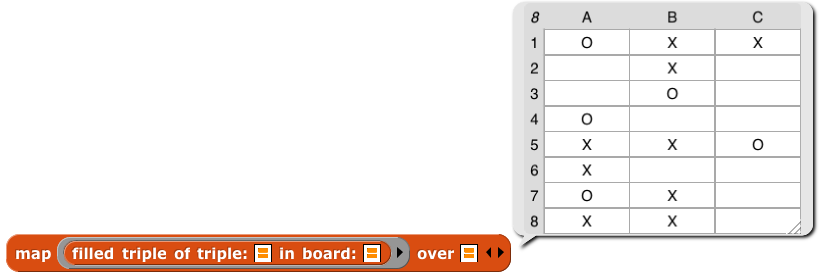
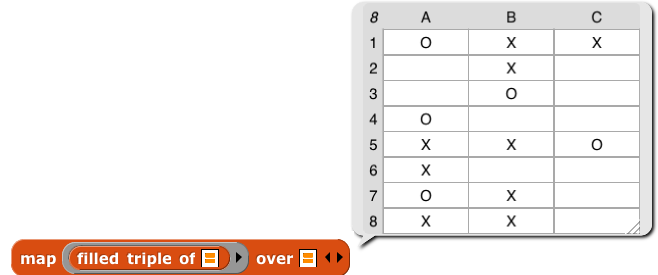
Revision of ttt per Paul's review
Ready for Paul's second review!

diff --git a/cur/programming/1-introduction/mini17/tttv2.html b/cur/programming/1-introduction/mini17/tttv2.html
@@ -12,10 +12,25 @@
 <img src="/bjc-r/img/1-introduction/ttt-board-and-list.png" alt="tic-tac-toe board and BOARD list" /><br /> 
 Now we'd like the computer to check,  after a player has moved, whether that player has won the game. To do that, it must be able to detect patterns in the board position that mean the player has three cells in some row or column or diagonal. Your goal is to write a <img src="/bjc-r/img/1-introduction/has-player-won.png" alt="has player ( ) won?"> block. The input will be X or O, representing the player that just moved.</p>
 <div class="forYouToDo" id="first"><ol>
-<li>How many ways are there to win at tic-tac-toe? With your partner, figure out which sets of three squares count as a win and list them all on paper. (For example, {4, 5, 6} is the list of cells in the second row. If one player fills all three  cells in that list, that player wins. Another win is {3, 5, 7}, one of the diagonals.)</li>
+<li>How many ways are there to win at tic-tac-toe? With your partner, figure out which sets of three squares count as a win and list them all on paper. (For example, {4, 5, 6} is the list of cells in the second row. If one player fills all three  cells in that list, “that player wins. Another win is {3, 5, 7}, one of the diagonals.)</li“‘>
 <li>Load <a class="run" href="/bjc-r/prog/1-introduction/mini-ttt.xml">this project</a>.  The <code>wins</code> block already contains the two wins listed above. Fill in the remaining winning triples you've found.<br />
   <img src="/bjc-r/img/1-introduction/wins.png" width="50%" alt="wins" /><br />
-  </li>
+  </li></ol></div>
+<p>Let's say player X has just moved. We want to know whether X won the game — whether there are three Xs along any of the eight winning triples. We're going to attack this problem in two pieces. First, we'll find out whether X has won along <em>some particular</em> triple. After that, we'll see how to ask that question for all the triples at once.</p>
+<p>So, given a winning triple such as <code>{4,5,6}</code>, we want to convert those three numbers into the three corresponding items of <var>board</var>, in this case <code>{_,X,_}</code>. (Each <code>_</code> shown here represents an empty item in the list, not an actual underscore character.)</p>
+<p>Saying that another way, we want a list of three items, namely
+<br /><code>item 4 of board</code>
+<br /><code>item 5 of board</code>
+<br /><code>item 6 of board</code>
+<br />We'll call a list like <code>{_,X,_}</code> a <em>filled triple.</em>  (We just made up that name to have a name; it's not a computer science technical term.)</p>
+<p>You could write an expression like this:<br /><img src="/bjc-r/img/2-conditionals-abstraction-testing/list-456.png" alt="list (item 4 of board) (item 5 of board) (item 6 of board)"><br />
+... but it would be painful to do that for every possible winning triple.  You'd really like to be able to ask for <img src="/bjc-r/img/2-conditionals-abstraction-testing/item-qmqmqm.png" alt="item ??? of board"> with each item of <code>{4,5,6}</code> as the first input to <code>item</code>.</p>
+
+Computing some function of each item of a list is a very common thing to want, and Snap<em>!</em> has a tool for it.
+
+<div class="takeNote">
+<h4>Map</h4>
+<div class="forYouToDo"><ol start="3">
   <li>Try these:<br />
               
       <img class="indent" src="/bjc-r/img/3-lists/map-example-2.png" alt="map (join ( ) (s)) over (list (cat) (dog) (bird)) reporting" title="map (join ( ) (s)) over (list (cat) (dog) (bird)) reporting" /><br />
@@ -24,13 +39,7 @@ Note that each example has an empty input slot in a function (the green blocks, 
 </ol>
 </div>
 <p><code>Map</code> calls a given function (its first input) on each item of a list (its second input). It reports a list of the reported values.</p>
-<p>&nbsp;</p>
-<p>Let's say player X has just moved. We want to know whether X won the game — whether there are three Xs along any of the eight winning triples. So, given a winning triple such as <code>{4,5,6}</code>, we want to convert those three numbers into the three corresponding items of <var>board</var>, in this case <code>{_,X,_}</code>. (Each <code>_</code> shown here represents an empty item in the actual list.)</p>
-<p>Saying that another way, we want a list of three items, namely
-<br /><code>item 4 of board</code>
-<br /><code>item 5 of board</code>
-<br /><code>item 6 of board</code>
-<br />We'll call a list like <code>{_,X,_}</code> a <em>filled triple.</em>  (We just made up that name to have a name; it's not a computer science technical term.)</p>
+</div>
 
 <div class="forYouToDo">
                 <img class="imageRight" src="/bjc-r/img/icons/talk-with-your-partner-mini.png" alt="Talk with Your Partner" title="Talk with Your Partner" />
@@ -39,22 +48,31 @@ Note that each example has an empty input slot in a function (the green blocks, 
 <li>Fill in one of the two empty input slots in <br /><img src="/bjc-r/img/1-introduction/map-over-456.png" alt="map [item ( ) of ( )] over (list 4 5 6)">
 so that it reports
 <code>{_,X,_}</code>.</li>
-<li>Write a reporter<br />
-<img src="/bjc-r/img/1-introduction/filled-triple-empty.png" alt="filled triple of triple: ( ) in board: ( )"><br />
+<li>Write a reporter
+<img src="/bjc-r/img/1-introduction/filled-triple-empty.png" alt="filled triple of ( )">
 that works like this:<br />
-<img src="/bjc-r/img/1-introduction/filled-triple-example.png" alt="filled triple of triple: (list 4 5 6) in board: (board) "></li>
+<img src="/bjc-r/img/1-introduction/filled-triple-example.png" alt="filled triple (list 4 5 6)"></li>
+<li>Fill in the blank in the expression below so that it reports <code>true</code> if X has won in this triple:<br /><img src="/bjc-r/img/1-introduction/filled-triple-equals-what.png" alt="(filled triple (list 4 5 6)) = ( )">
+</ol></div>
+<div class="takeItFurther"><ol type="A">
 <li>Fill in some blanks in the expression below so that it gives the result shown:<br />
 <img src="/bjc-r/img/1-introduction/filled-wins.png" alt="map [filled triple of triple: ( ) in board: ( )] over ( )"><br />
-Use the resulting expression to write a <code>filled wins in board:</code> block.</li>
-<li>Try these examples:<br />
+Use the resulting expression to write a <code>filled wins</code> block.</li></ol></div>
+<p>Okay, now you have the tools you need to ask whether X has won <em>along some particular</em> triple.  To solve the entire problem &mdash; to find out whether X has won <em>along any</em> triple &mdash; you'd like to ask the question "are there any triples along which X has won?"  Snap<em>!</em> doesn't exactly have a tool for that, but it has something more generally useful: a way to select <em>those items from a list for which some predicate function reports true.</em>
+<div class="takeNote">
+<h4>Keep</h4>
+<div class="forYouToDo">
+<ol start="8"><li>Try these examples:<br />
 <img src="/bjc-r/img/3-lists/keep-example-1.png" alt="keep items such that [is ( ) a number ?] from (list 5 ☺ six 7 elephant 3) reporting {5,7,3}"><br />
 <img src="/bjc-r/img/1-introduction/keep-starts-e.png" width="687" height="132" alt="keep items such that [(letter 1 of ( )) = e] from (list aardvark elephant camel giraffe emu kangaroo orangutan) reporting {elephant,emu}"></li>
-<li>Use your <code>filled wins</code> block to complete this expression to select all the winning triples that X has actually won:<br />
+</ol></div></div>
+<div class="forYouToDo">
+<ol start="9">
+<li>Use the result of problem 7 to complete this expression to select all the winning triples that X has actually won:<br />
 <img src="/bjc-r/img/1-introduction/keep-xxx.png"  alt="keep items such that [( ) = (list X X X))] from ( )"><br />
 What will this expression report if X has in fact won?  What will it report if X hasn't won?</li>
 <li>Write a block <code>has player ___ won?</code>.</li>
 
-</ol></div>
 
 </body>
 </html>
